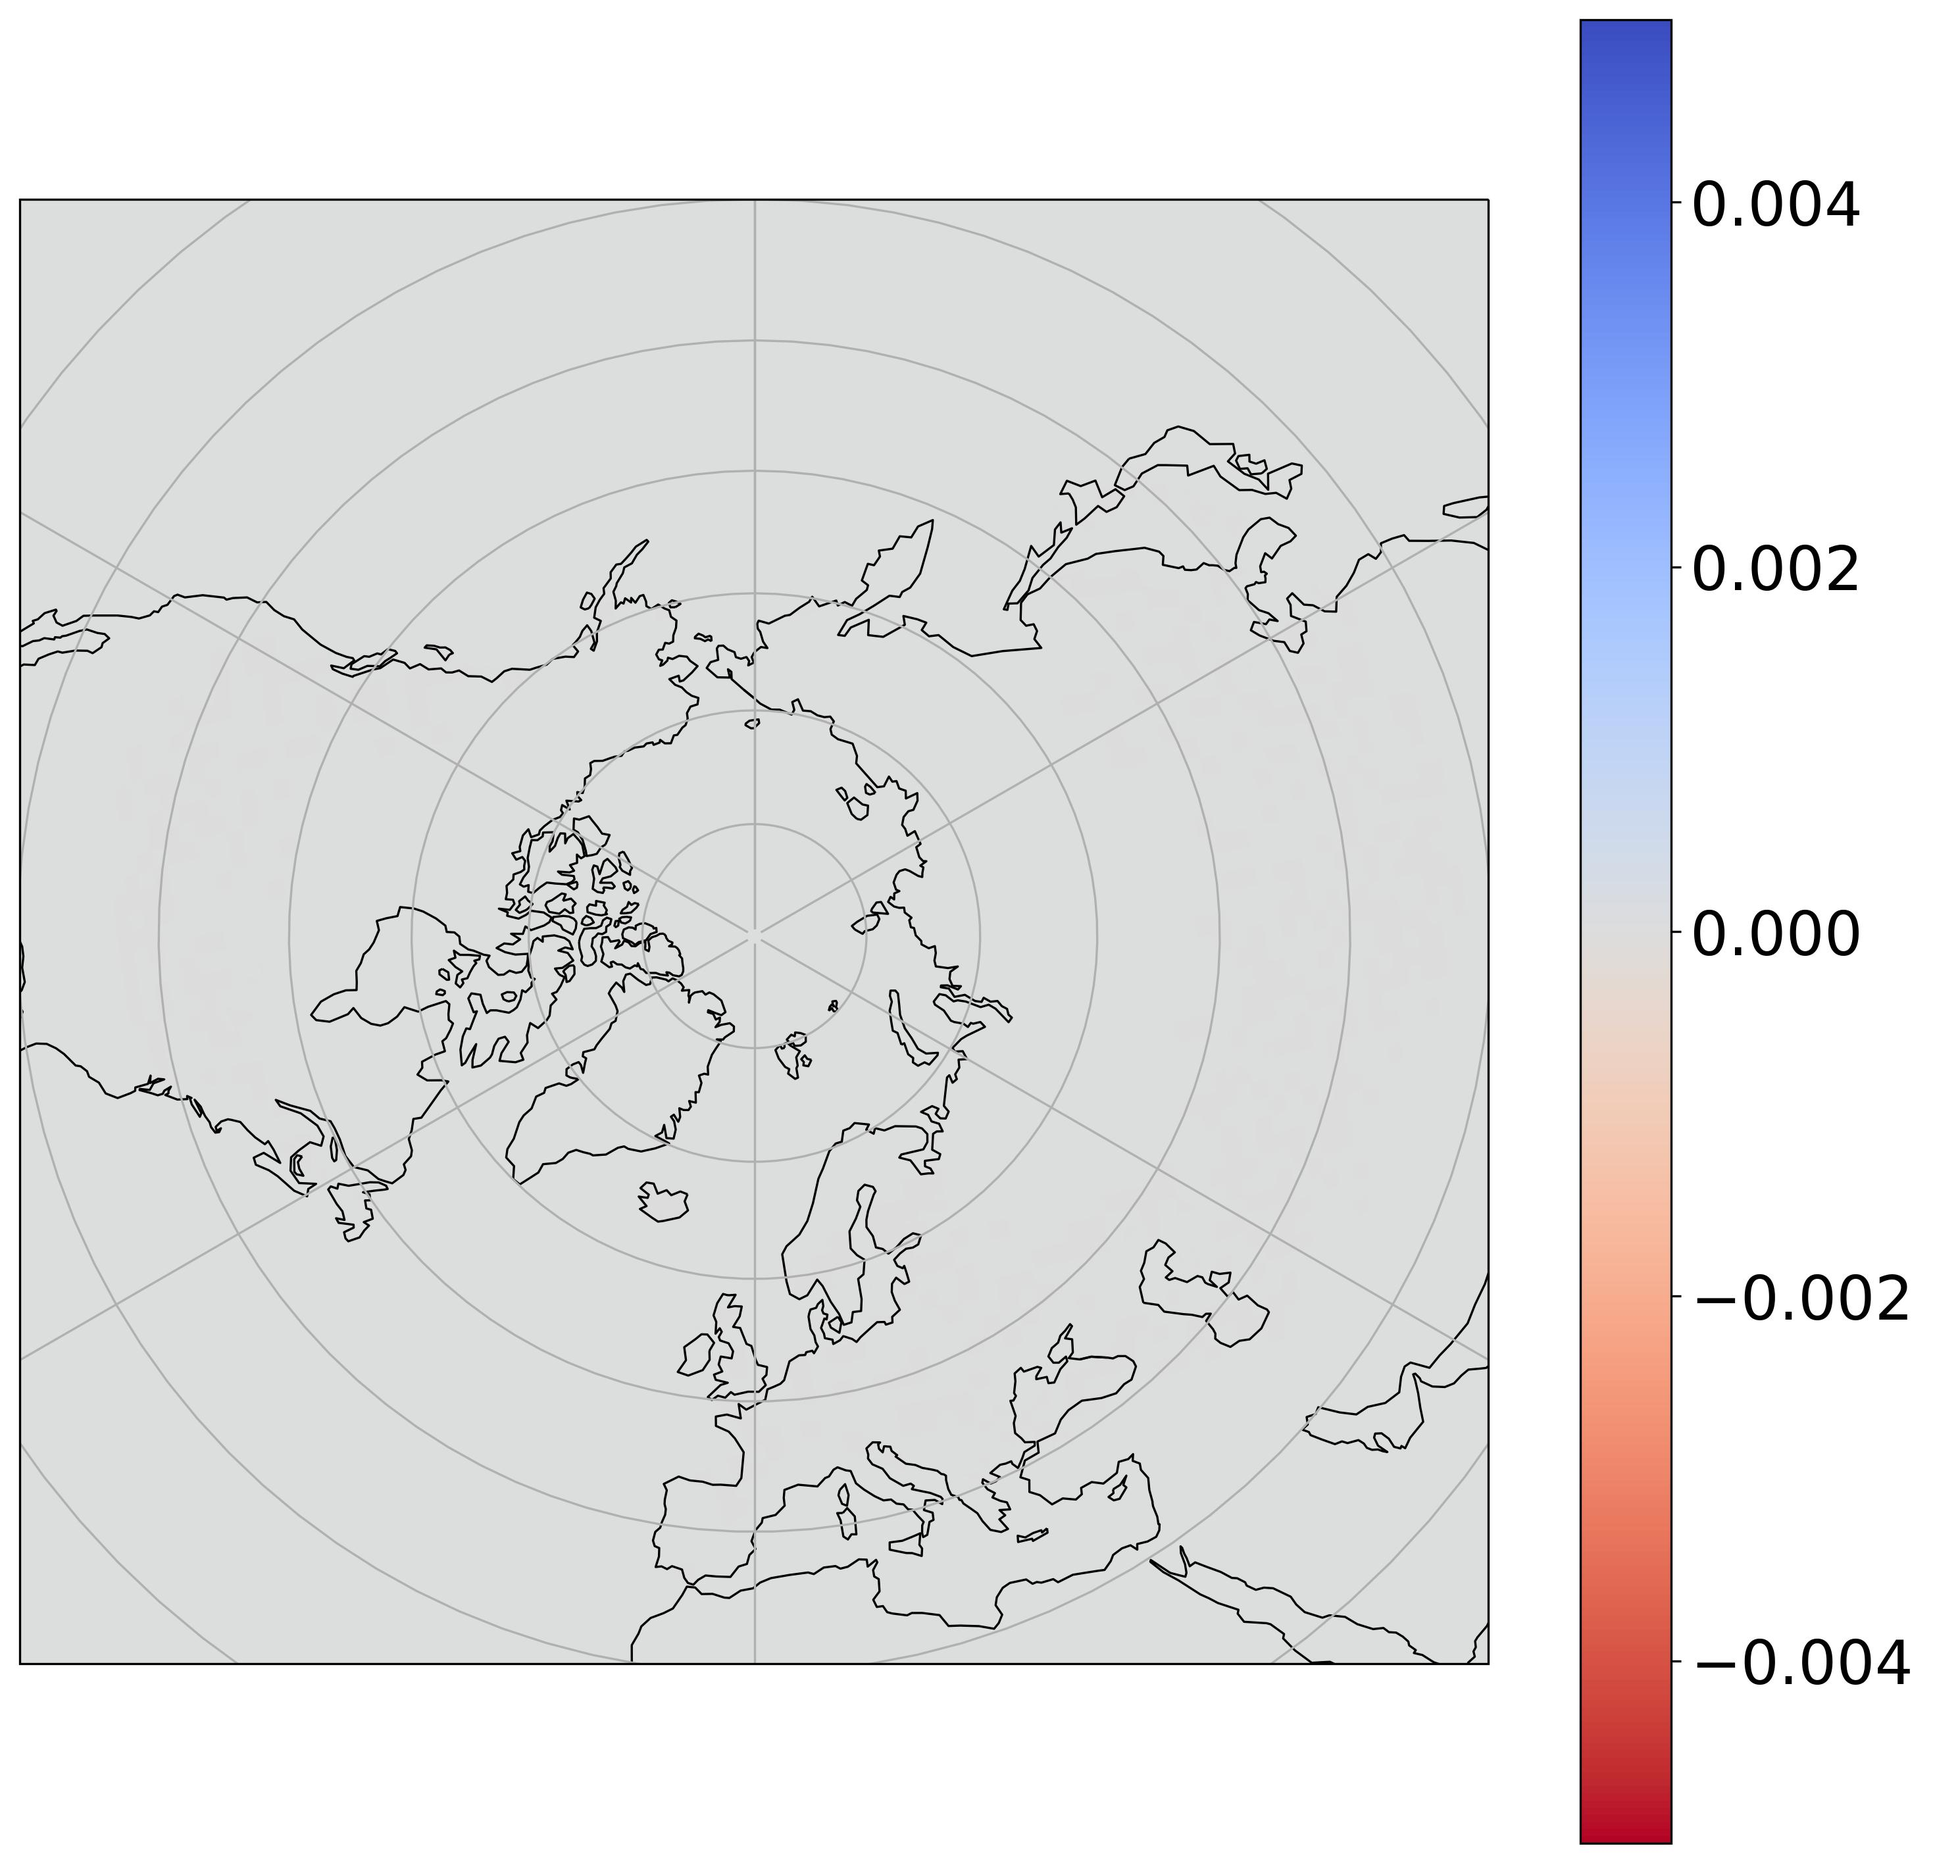
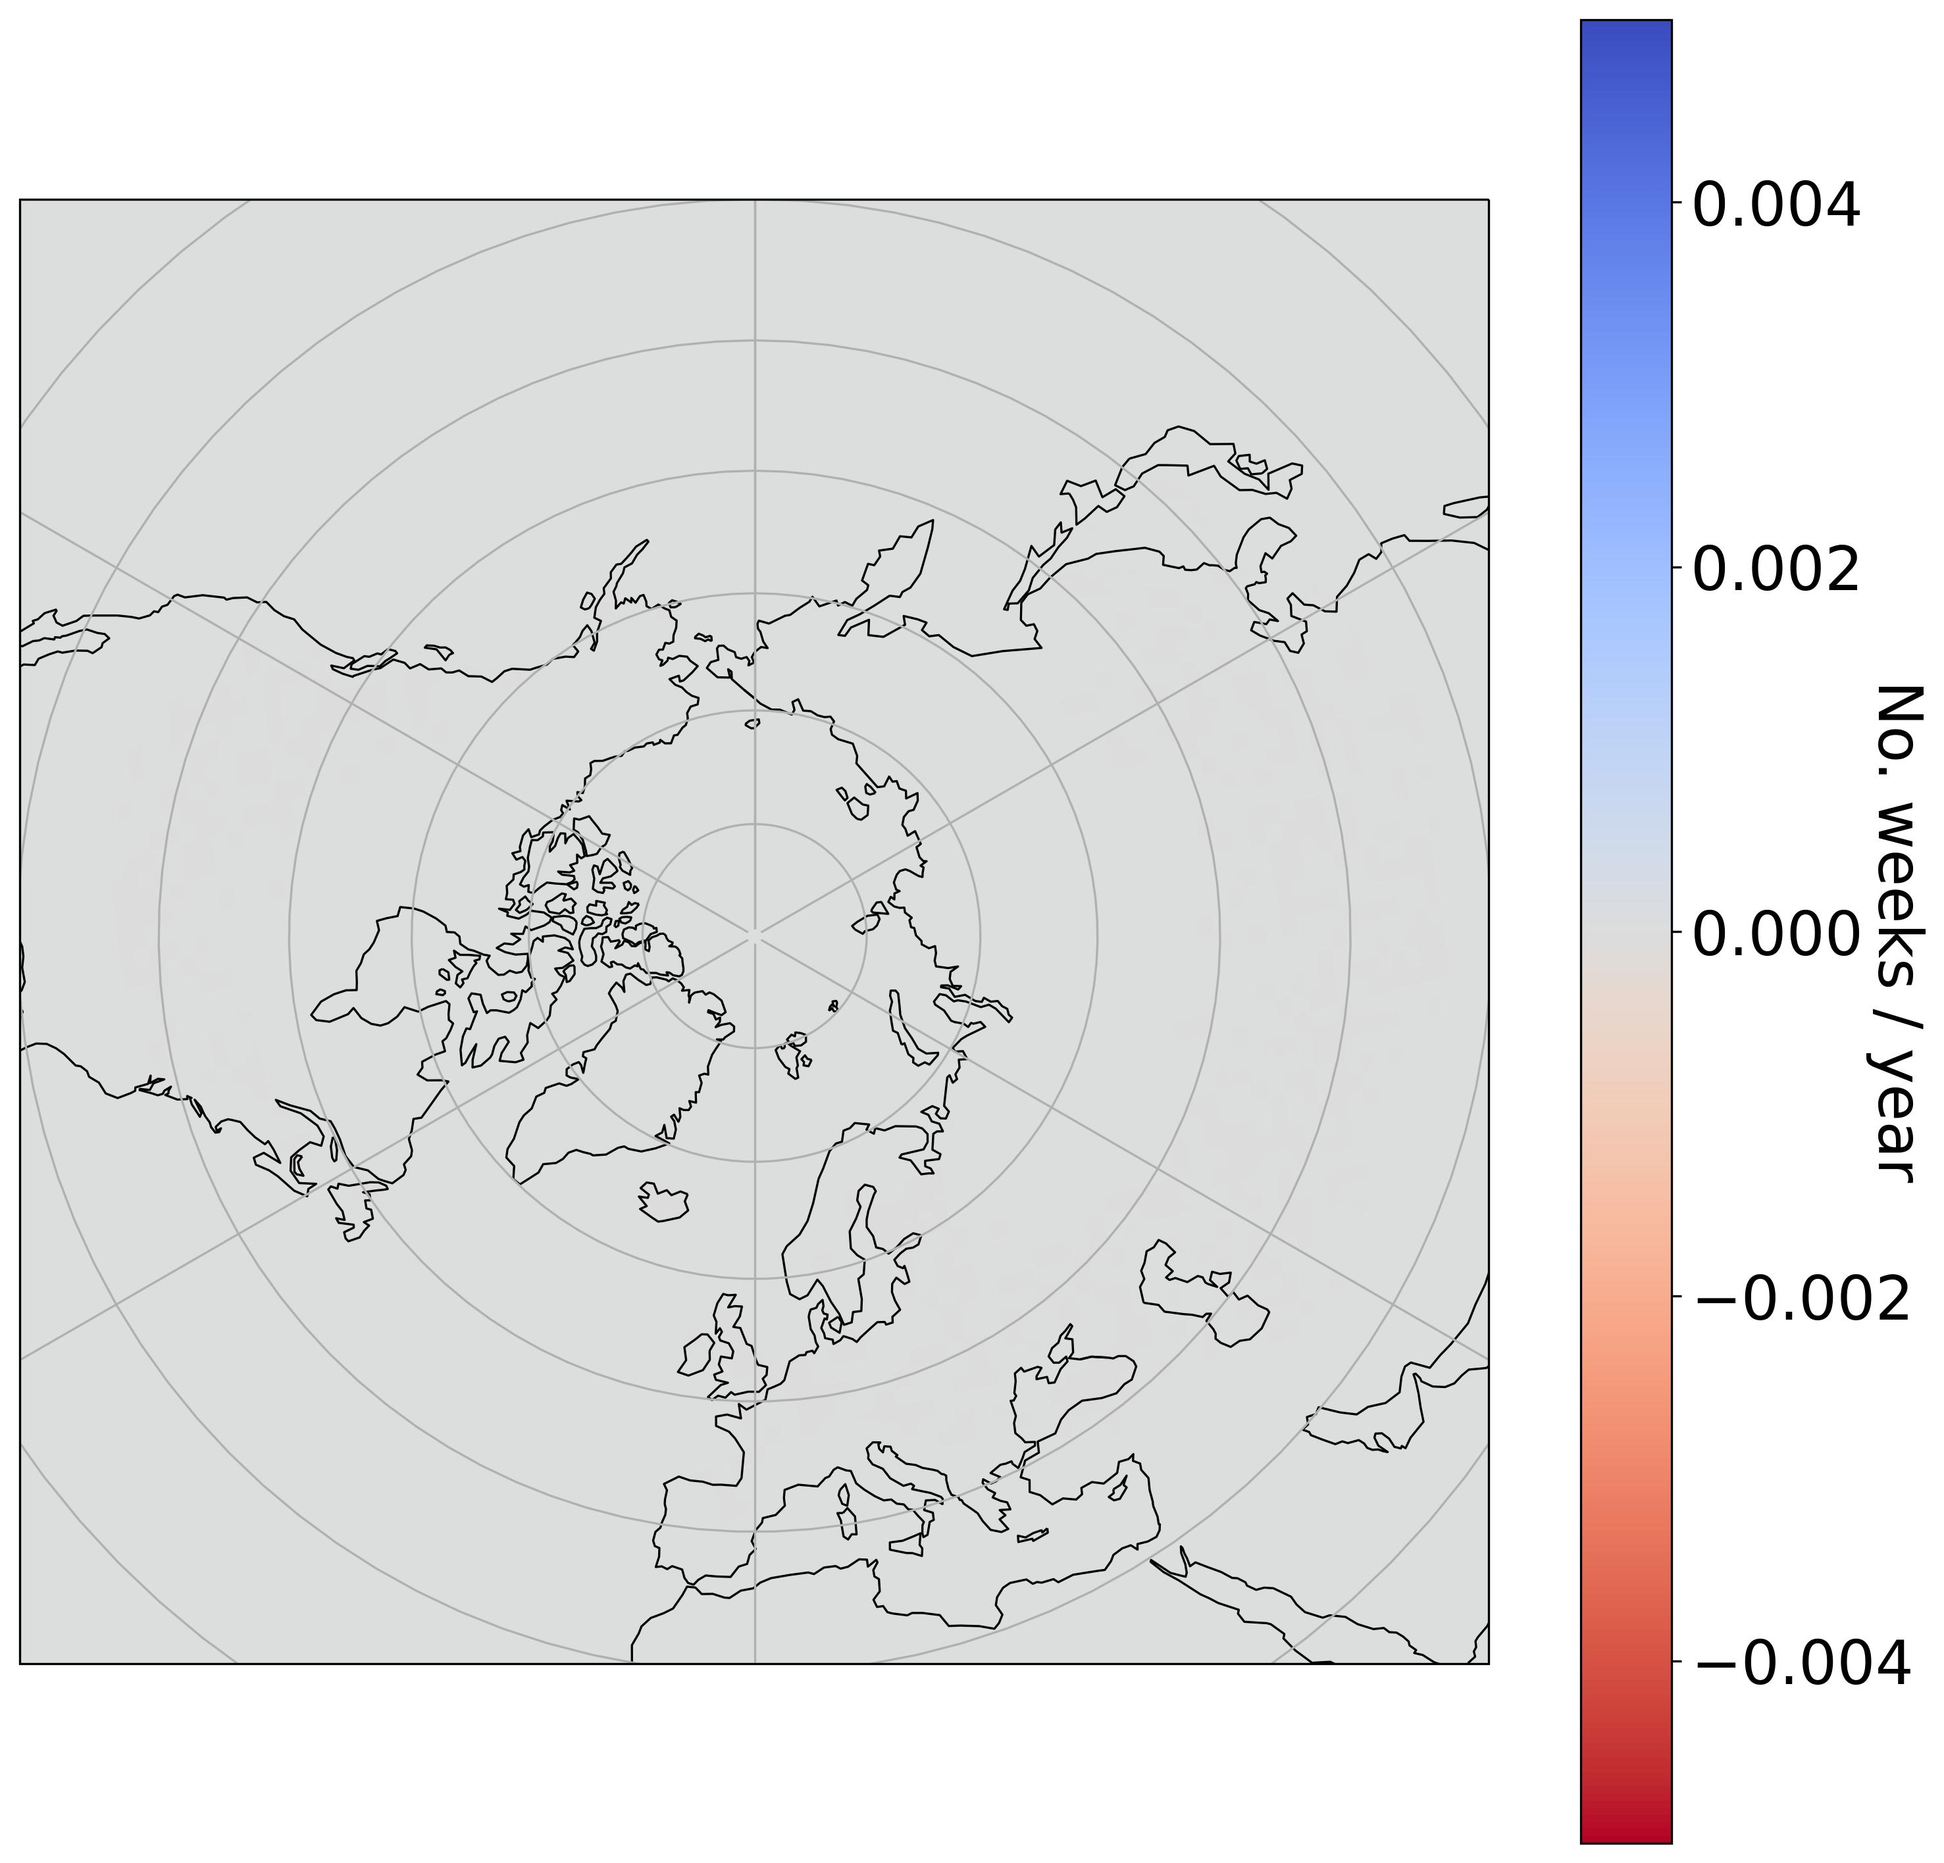
titles and labels for plots (code only)

diff --git a/nondetrended_covar_v2.py b/nondetrended_covar_v2.py
@@ -19,7 +19,9 @@ plt.rcParams.update({'font.size': 22})
 mode = 'monthly' # options are "monthly" or "seasonal"
 method = 'nondetrended_covar' # options are detrended/nondetrended_covar/svd
 
-save = True
+save = False
+display = True # display the plots on the screen
+# The order they are displayed in are regression map -> timeseries 1, 2, 3 -> loading map 1, 2, 3
 
 
 ## DO NOT CHANGE UNLESS YOU KNOW WHAT YOURE DOING
@@ -29,6 +31,7 @@ logs_path = "./logs/"+method+"/"+mode+"/"
 tabl_path = "./tables/"+mode+"_tables/"+method+"/"
 fig_ext = "jpg"
 
+m_rng = range(1, 2) # range of months to plot. Always add one to final month so jan-dec is (1, 13), just march is (3, 4), etc.
 plt_rng = 3 # how many PCs to plot
 ## Keep in mind that figs arent deleted with each code execution, only overwritten. So if this number is reduced between executions, there will be some old figs left over
 data_dim = (720, 720) # shape of all of the data files
@@ -40,6 +43,12 @@ seasons = {'winter' : [12, 1, 2],
            'spring' : [3, 4, 5],
            'summer' : [6, 7, 8],
            'fall'   : [9, 10, 11]}
+
+# Dictionary for a months number and its abbreviated name (I could just import datetime to do this, but this works too)
+m_names = {1 : 'Jan', 2 : 'Feb', 3 : 'Mar', 4 : 'Apr',
+           5 : 'May', 6 : 'Jun', 7 : 'Jul', 8 : 'Aug',
+           9 : 'Sep', 10 : 'Oct', 11 : 'Nov', 12 : 'Dec'}
+
 
 '''
     Generalizing to seasonal analysis is still a work in progress
@@ -201,8 +210,9 @@ def load_latlon(cpath="./Data/lat_lon/", dim=data_dim):
 def f(x, y):
     return np.sin(x) ** 10 + np.cos(10 + y * x) * np.cos(x)
 
-def plotter(ice_d, coord, dx=25000, dy=25000, marg=50000, lbl='', min_lat=30, contour=False,
-            cmap=plt.cm.Blues, cb_tix=True, cb_marg=1, cb_range=None, save_as=None):
+def plotter(ice_d, coord, dx=25000, dy=25000, marg=50000, min_lat=30, contour=False,
+            cmap=plt.cm.Blues, cb_tix=True, cb_marg=1, cb_range=None, month=None, cbar_label=None,
+            save_as=None):
     '''
         Plot given list of data matricies
 
@@ -245,7 +255,7 @@ def plotter(ice_d, coord, dx=25000, dy=25000, marg=50000, lbl='', min_lat=30, co
         if cb_tix:
             cs = ax.pcolormesh(x, y, ice[1], cmap=cmap,
                        transform=ccrs.Stereographic(**kw), zorder=1)
-            fig.colorbar(cs, ax=ax, label=lbl, ticks=[0, 1, 2, 3, 4])
+            cb = fig.colorbar(cs, ax=ax, ticks=[0, 1, 2, 3, 4])
         else: # should be the case where I need a diverging color bar
 
             if cb_range:
@@ -263,15 +273,22 @@ def plotter(ice_d, coord, dx=25000, dy=25000, marg=50000, lbl='', min_lat=30, co
                 cs = ax.pcolormesh(x, y, ice[1], cmap=cmap, norm=divnorm,
                        transform=ccrs.Stereographic(**kw), zorder=1)
 
-            fig.colorbar(cs, ax=ax, label=lbl)
+            cb = fig.colorbar(cs, ax=ax)
 
 
+        if month:
+            ax.set_title(m_names.get(month), fontsize=28)
+        if cbar_label:
+            cb.set_label(cbar_label, rotation=270, labelpad=30, fontsize=24)
 
         if save_as:
             if contour: # adjusting filename if contour is true
                 save_as = save_as[:-4] + "_contour." + fig_ext
 
             plt.savefig(save_as, format=fig_ext, dpi=300, bbox_inches = 'tight')
+
+        if display:
+            plt.show()
 
         # clear up ram to avoid memory issues when dealing with a lot of figs
         fig.clear()
@@ -478,7 +495,7 @@ def monthly_computation_handler(month, lat, lon):
     # turn into dict and plot
     plotter({"Regression coefficient map" : rcoeffs_map}, coord=(lat, lon), dx=25000, dy=25000,
             marg=0, min_lat=30, cmap=plt.cm.get_cmap('coolwarm_r'), cb_tix=False, cb_marg=0.005,
-            save_as=rmap_save_as+"."+fig_ext)
+            month=month, cbar_label="No. weeks / year", save_as=rmap_save_as+"."+fig_ext)
 
 
     ## PLOT PC TIMESERIES
@@ -499,6 +516,9 @@ def monthly_computation_handler(month, lat, lon):
         if time_save_as and save:
             plt.savefig(time_save_as+str(y+1)+"."+fig_ext, format=fig_ext, dpi=300, bbox_inches = 'tight')
 
+        if display:
+            plt.show()
+
         fig.clear()
         plt.close(fig)
 
@@ -516,7 +536,7 @@ def monthly_computation_handler(month, lat, lon):
         # turn into dict and plot
         plotter({"Loadingvector "+str(y):nvec}, coord=(lat, lon), dx=25000, dy=25000,
             marg=0, min_lat=30, contour=False, cmap=plt.cm.get_cmap('coolwarm_r'), cb_tix=False,
-            save_as=lmap_save_as+str(y+1)+"."+fig_ext)
+            month=month, save_as=lmap_save_as+str(y+1)+"."+fig_ext)
 
     return tseries, evr
 
@@ -529,7 +549,7 @@ def main():
     lat, lon = load_latlon()
 
     if mode=='monthly':
-        for m in range(1, 13):
+        for m in m_rng:
             print()
             print("Month No. " + str(m))
             ts, ev = monthly_computation_handler(m, lat, lon)

diff --git a/detrended_covar_v2.py b/detrended_covar_v2.py
@@ -19,7 +19,11 @@ plt.rcParams.update({'font.size': 22})
 mode = 'monthly' # options are "monthly" or "seasonal"
 method = 'detrended_covar' # options are detrended/nondetrended_covar/svd
 
-save = True
+save = False
+display = True # display the plots on the screen
+# The order they are displayed in are regression map -> timeseries 1, 2, 3 -> loading map 1, 2, 3
+
+
 
 
 ## DO NOT CHANGE UNLESS YOU KNOW WHAT YOURE DOING
@@ -29,6 +33,7 @@ logs_path = "./logs/"+method+"/"+mode+"/"
 tabl_path = "./tables/"+mode+"_tables/"+method+"/"
 fig_ext = "jpg"
 
+m_rng = range(1, 2) # range of months to plot. Always add one to final month so jan-dec is (1, 13), just march is (3, 4), etc.
 plt_rng = 3 # how many PCs to plot
 ## Keep in mind that figs arent deleted with each code execution, only overwritten. So if this number is reduced between executions, there will be some old figs left over
 data_dim = (720, 720) # shape of all of the data files
@@ -40,6 +45,11 @@ seasons = {'winter' : [12, 1, 2],
            'spring' : [3, 4, 5],
            'summer' : [6, 7, 8],
            'fall'   : [9, 10, 11]}
+
+# Dictionary for a months number and its abbreviated name (I could just import datetime to do this, but this works too)
+m_names = {1 : 'Jan', 2 : 'Feb', 3 : 'Mar', 4 : 'Apr',
+           5 : 'May', 6 : 'Jun', 7 : 'Jul', 8 : 'Aug',
+           9 : 'Sep', 10 : 'Oct', 11 : 'Nov', 12 : 'Dec'}
 
 '''
     Generalizing to seasonal analysis is still a work in progress
@@ -202,8 +212,9 @@ def load_latlon(cpath="./Data/lat_lon/", dim=data_dim):
 def f(x, y):
     return np.sin(x) ** 10 + np.cos(10 + y * x) * np.cos(x)
 
-def plotter(ice_d, coord, dx=25000, dy=25000, marg=50000, lbl='', min_lat=30, contour=False,
-            cmap=plt.cm.Blues, cb_tix=True, cb_marg=1, cb_range=None, save_as=None):
+def plotter(ice_d, coord, dx=25000, dy=25000, marg=50000, min_lat=30, contour=False,
+            cmap=plt.cm.Blues, cb_tix=True, cb_marg=1, cb_range=None, month=None, cbar_label=None,
+            save_as=None):
     '''
         Plot given list of data matricies
 
@@ -244,7 +255,8 @@ def plotter(ice_d, coord, dx=25000, dy=25000, marg=50000, lbl='', min_lat=30, co
         if cb_tix:
             cs = ax.pcolormesh(x, y, ice[1], cmap=cmap,
                        transform=ccrs.Stereographic(**kw), zorder=1)
-            fig.colorbar(cs, ax=ax, label=lbl, ticks=[0, 1, 2, 3, 4])
+            cb = fig.colorbar(cs, ax=ax, ticks=[0, 1, 2, 3, 4])
+
         else: # should be the case where I need a diverging color bar
 
             if cb_range:
@@ -262,14 +274,21 @@ def plotter(ice_d, coord, dx=25000, dy=25000, marg=50000, lbl='', min_lat=30, co
                 cs = ax.pcolormesh(x, y, ice[1], cmap=cmap, norm=divnorm,
                        transform=ccrs.Stereographic(**kw), zorder=1)
 
-            fig.colorbar(cs, ax=ax, label=lbl)
+            cb = fig.colorbar(cs, ax=ax)
 
+        if month:
+            ax.set_title(m_names.get(month), fontsize=28)
+        if cbar_label:
+            cb.set_label(cbar_label, rotation=270, labelpad=30, fontsize=24)
 
         if save_as:
             if contour: # adjusting filename if contour is true
                 save_as = save_as[:-4] + "_contour." + fig_ext
 
             plt.savefig(save_as, format=fig_ext, dpi=300, bbox_inches = 'tight')
+
+        if display:
+            plt.show()
 
         # clear up ram to avoid memory issues when dealing with a lot of figs
         fig.clear()
@@ -474,7 +493,7 @@ def monthly_computation_handler(month, lat, lon):
     # turn into dict and plot
     plotter({"Regression coefficient map" : rcoeffs_map}, coord=(lat, lon), dx=25000, dy=25000,
             marg=0, min_lat=30, cmap=plt.cm.get_cmap('coolwarm_r'), cb_tix=False, cb_marg=0.005,
-            save_as=rmap_save_as+"."+fig_ext)
+            month=month, cbar_label="No. weeks / year", save_as=rmap_save_as+"."+fig_ext)
 
 
 
@@ -496,6 +515,9 @@ def monthly_computation_handler(month, lat, lon):
         if time_save_as and save:
             plt.savefig(time_save_as+str(y+1)+"."+fig_ext, format=fig_ext, dpi=300, bbox_inches = 'tight')
 
+        if display:
+            plt.show()
+
         fig.clear()
         plt.close(fig)
 
@@ -513,7 +535,7 @@ def monthly_computation_handler(month, lat, lon):
         # turn into dict and plot
         plotter({"Loadingvector "+str(y):nvec}, coord=(lat, lon), dx=25000, dy=25000,
             marg=0, min_lat=30, contour=False, cmap=plt.cm.get_cmap('coolwarm_r'), cb_tix=False,
-            save_as=lmap_save_as+str(y+1)+"."+fig_ext)
+            month=month, save_as=lmap_save_as+str(y+1)+"."+fig_ext)
 
     return tseries, evr
 
@@ -525,7 +547,7 @@ def main():
     lat, lon = load_latlon()
 
     if mode=='monthly':
-        for m in range(1, 13):
+        for m in m_rng:
             print()
             print("Month No. " + str(m))
             ts, ev = monthly_computation_handler(m, lat, lon)
